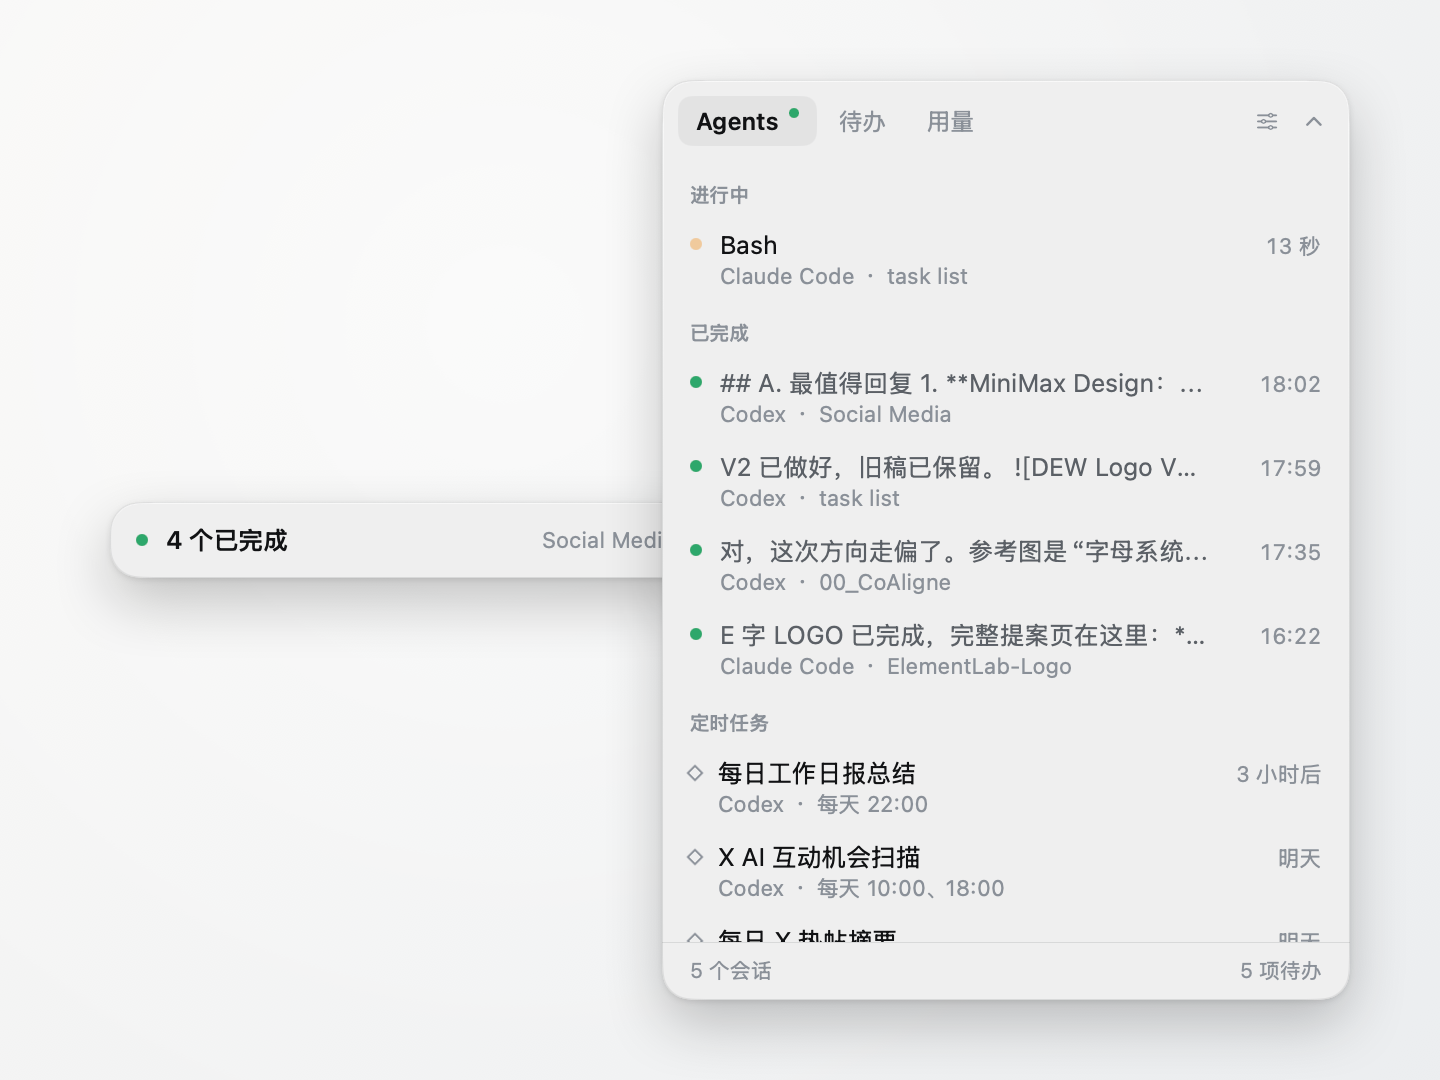
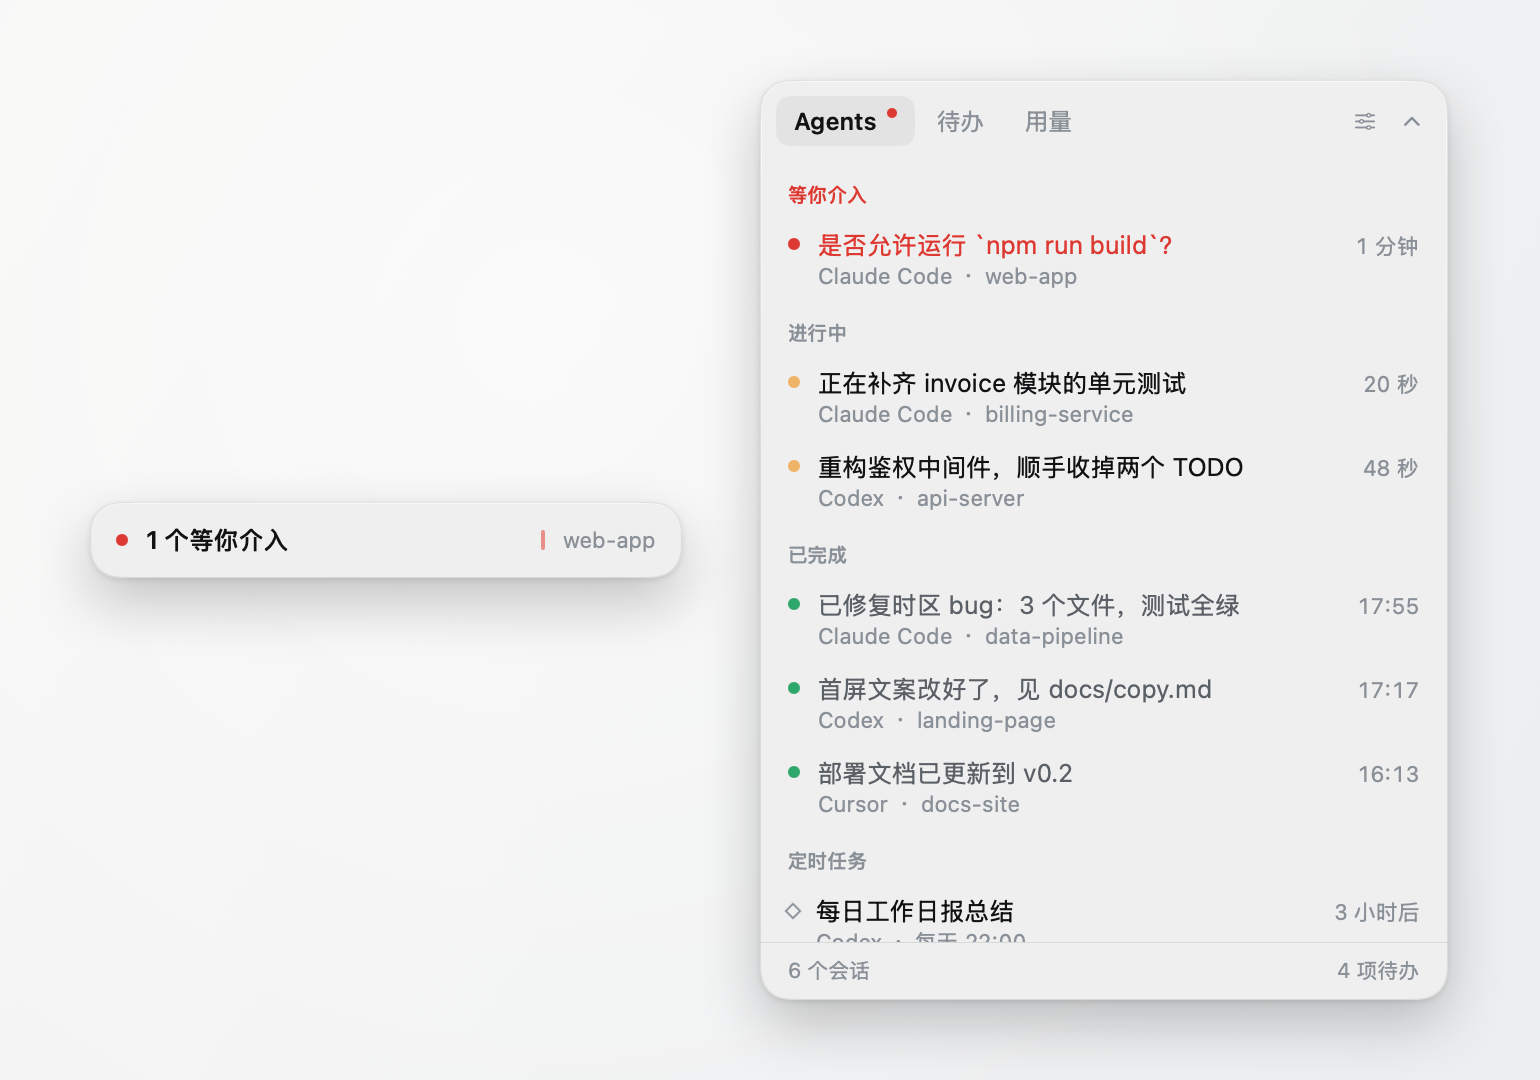
Add DEW_DEMO demo mode; README screenshots now use demo data
DemoAdapter feeds fake sessions / scheduled tasks / quotas (one instance
per AgentKind, same store → UI path as real adapters, no file watching);
TodoStore(demo:) holds sample items in memory and never touches
todos.json. Screenshots regenerated from demo mode so the README no
longer exposes real project names, summaries, or personal to-dos.

diff --git a/app/Sources/Dew/Adapters/DemoAdapter.swift b/app/Sources/Dew/Adapters/DemoAdapter.swift
@@ -1,0 +1,101 @@
+import Foundation
+
+/// 演示模式（`DEW_DEMO=1`）的假数据源。用于截图、录屏、给别人看界面。
+///
+/// 不读任何 Agent 目录，也不参与文件监听；每个 AgentKind 一个实例，
+/// 和真实 adapter 走同一条 store → UI 的路，UI 层完全感知不到区别。
+/// 时间都相对于实例创建时刻算，所以「进行中 12 秒」会自己往上走，看着像活的。
+struct DemoAdapter: AgentAdapter {
+    let kind: AgentKind
+    private let born = Date()
+
+    var watchPaths: [URL] { [] }
+
+    static var all: [any AgentAdapter] {
+        [DemoAdapter(kind: .claudeCode), DemoAdapter(kind: .codex), DemoAdapter(kind: .cursor)]
+    }
+
+    private func t(_ zh: String, _ en: String) -> String { L10n.current == .zh ? zh : en }
+    private func ago(_ s: TimeInterval) -> Date { born.addingTimeInterval(-s) }
+
+    private func session(_ project: String, _ state: SessionState, _ zh: String, _ en: String, _ agoSec: TimeInterval) -> AgentSession {
+        AgentSession(id: "demo/\(kind.rawValue)/\(project)", kind: kind,
+                     projectName: project, cwd: "~/Projects/\(project)",
+                     state: state, summary: t(zh, en), changedAt: ago(agoSec), sourcePath: "")
+    }
+
+    func loadSessions() -> [AgentSession] {
+        switch kind {
+        case .claudeCode:
+            return [
+                session("web-app", .needsYou,
+                        "是否允许运行 `npm run build`？", "Allow running `npm run build`?", 95),
+                session("billing-service", .running,
+                        "正在补齐 invoice 模块的单元测试", "Adding unit tests for the invoice module", 12),
+                session("data-pipeline", .done,
+                        "已修复时区 bug：3 个文件，测试全绿", "Fixed the timezone bug: 3 files, tests green", 28 * 60),
+            ]
+        case .codex:
+            return [
+                session("api-server", .running,
+                        "重构鉴权中间件，顺手收掉两个 TODO", "Refactoring auth middleware, closing two TODOs", 40),
+                session("landing-page", .done,
+                        "首屏文案改好了，见 docs/copy.md", "Hero copy updated — see docs/copy.md", 66 * 60),
+            ]
+        case .cursor:
+            return [
+                session("docs-site", .done,
+                        "部署文档已更新到 v0.2", "Deploy docs updated for v0.2", 130 * 60),
+            ]
+        case .antigravity:
+            return []
+        }
+    }
+
+    func loadScheduledTasks() -> [ScheduledTask] {
+        let now = Date()
+        func rr(_ name: String, _ rrule: String) -> ScheduledTask {
+            ScheduledTask(id: "demo/task/\(name)", kind: kind, name: name,
+                          scheduleText: RRule.humanize(rrule), nextRun: RRule.nextRun(after: now, rrule: rrule),
+                          enabled: true, sourcePath: "")
+        }
+        func cron(_ name: String, _ expr: String) -> ScheduledTask {
+            ScheduledTask(id: "demo/task/\(name)", kind: kind, name: name,
+                          scheduleText: Cron.humanize(expr), nextRun: Cron.nextRun(after: now, expression: expr),
+                          enabled: true, sourcePath: "")
+        }
+        switch kind {
+        case .codex:
+            return [
+                rr(t("每日工作日报总结", "Daily work summary"), "RRULE:FREQ=DAILY;BYHOUR=22;BYMINUTE=0"),
+                rr(t("竞品动态摘要", "Competitor digest"), "RRULE:FREQ=DAILY;BYHOUR=10;BYMINUTE=0"),
+            ]
+        case .claudeCode:
+            return [cron(t("依赖安全扫描", "Dependency security scan"), "0 9 * * 1")]
+        default:
+            return []
+        }
+    }
+
+    func loadQuota() -> AgentQuota? {
+        let now = Date()
+        switch kind {
+        case .claudeCode:
+            return AgentQuota(kind: kind, planType: "max", windows: [
+                QuotaWindow(label: L(.win5h), usedPercent: 61, resetsAt: now.addingTimeInterval(2 * 3600 + 14 * 60),
+                            totalTokens: 2_480_000, outputTokens: 96_000, severity: "normal", isActive: true),
+                QuotaWindow(label: L(.winWeek), usedPercent: 27, resetsAt: now.addingTimeInterval(3 * 86400 + 5 * 3600),
+                            totalTokens: 11_300_000, outputTokens: 410_000, severity: "normal"),
+            ], isLocalEstimate: false, sampledAt: now)
+        case .codex:
+            return AgentQuota(kind: kind, planType: "plus", windows: [
+                QuotaWindow(label: L(.win5h), usedPercent: 42, resetsAt: now.addingTimeInterval(3 * 3600 + 40 * 60),
+                            totalTokens: 1_120_000, outputTokens: 58_000),
+                QuotaWindow(label: L(.winWeek), usedPercent: 18, resetsAt: now.addingTimeInterval(4 * 86400),
+                            totalTokens: nil, outputTokens: nil),
+            ], isLocalEstimate: false, sampledAt: now)
+        default:
+            return nil
+        }
+    }
+}

diff --git a/app/Sources/Dew/Store/TodoStore.swift b/app/Sources/Dew/Store/TodoStore.swift
@@ -7,16 +7,23 @@ final class TodoStore: ObservableObject {
     @Published private(set) var items: [TodoItem] = []
 
     private let fileURL: URL
+    /// 演示模式：内存里一份示例数据，**不读不写** todos.json。
+    private let isDemo: Bool
     private var dayCheckTimer: Timer?
 
-    init() {
+    init(demo: Bool = false) {
+        isDemo = demo
         let dir = FileManager.default
             .urls(for: .applicationSupportDirectory, in: .userDomainMask)[0]
             .appending(path: "Dew")
-        try? FileManager.default.createDirectory(at: dir, withIntermediateDirectories: true)
         fileURL = dir.appending(path: "todos.json")
 
-        load()
+        if demo {
+            items = Self.demoItems()
+        } else {
+            try? FileManager.default.createDirectory(at: dir, withIntermediateDirectories: true)
+            load()
+        }
         resetDailyIfNeeded()
 
         // 跨自然日时把每日重复项重置为未完成
@@ -104,10 +111,27 @@ final class TodoStore: ObservableObject {
     }
 
     private func save() {
+        guard !isDemo else { return }
         let enc = JSONEncoder()
         enc.outputFormatting = [.prettyPrinted, .sortedKeys]
         guard let data = try? enc.encode(items) else { return }
         try? data.write(to: fileURL, options: .atomic)
+    }
+
+    /// 演示模式的示例待办（DEW_DEMO=1），中英文跟随界面语言
+    private static func demoItems() -> [TodoItem] {
+        let zh = L10n.current == .zh
+        func t(_ a: String, _ b: String) -> String { zh ? a : b }
+        return [
+            TodoItem(title: t("发布 v0.2 到 TestFlight", "Ship v0.2 to TestFlight"), kind: .high, order: 0),
+            TodoItem(title: t("过一遍待合并的 PR", "Review open PRs"), kind: .daily, done: true, order: 0,
+                     lastCompletedDay: today()),
+            TodoItem(title: t("回复社区 issue", "Reply to community issues"), kind: .daily, order: 1),
+            TodoItem(title: t("整理竞品清单", "Compile competitor list"), kind: .normal, done: true, order: 0),
+            TodoItem(title: t("写 onboarding 文案", "Write onboarding copy"), kind: .normal, order: 1),
+            TodoItem(title: t("约三位用户做访谈", "Schedule 3 user interviews"), kind: .normal, order: 2),
+            TodoItem(title: t("换掉旧 logo", "Replace the old logo"), kind: .normal, done: true, order: 3),
+        ]
     }
 
     /// 首次启动放几条，免得开箱是一片空白

diff --git a/app/Sources/Dew/App/AppDelegate.swift b/app/Sources/Dew/App/AppDelegate.swift
@@ -5,8 +5,17 @@ import SwiftUI
 final class AppDelegate: NSObject, NSApplicationDelegate {
     private var panel: FloatingPanel?
     private var statusItem: NSStatusItem?
-    private let agents = AgentStore()
-    private let todos = TodoStore()
+    private let agents: AgentStore
+    private let todos: TodoStore
+
+    override init() {
+        // DEW_DEMO=1：演示模式。会话 / 定时任务 / 额度 / 待办全是假数据，
+        // 不读任何 Agent 目录、不碰 todos.json。用于截图、录屏。
+        let demo = ProcessInfo.processInfo.environment["DEW_DEMO"] != nil
+        agents = demo ? AgentStore(adapters: DemoAdapter.all) : AgentStore()
+        todos = TodoStore(demo: demo)
+        super.init()
+    }
 
     private let originKey = "panel.origin"
 

diff --git a/app/README.md b/app/README.md
@@ -53,6 +53,7 @@ Esc 或点右上角箭头收起，拖动条身可移动，位置自动记忆。
 | `DEW_EXPANDED=todo` | 展开并直接切到待办 tab |
 | `DEW_EXPANDED=usage` | 展开并直接切到用量 tab |
 | `DEW_SETTINGS=1` | 同时展开设置面板 |
+| `DEW_DEMO=1` | 演示模式：会话 / 定时任务 / 额度 / 待办全是假数据，不读 Agent 目录、不碰 `todos.json`。截图用，可与上面的开关叠加 |
 
 ## 结构
 
